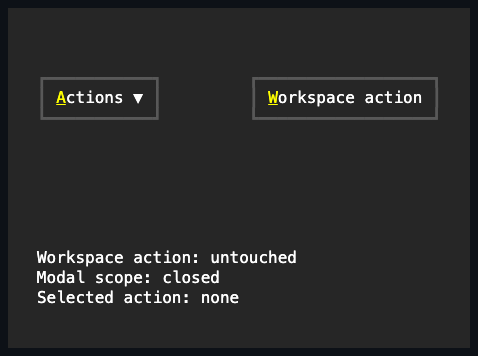
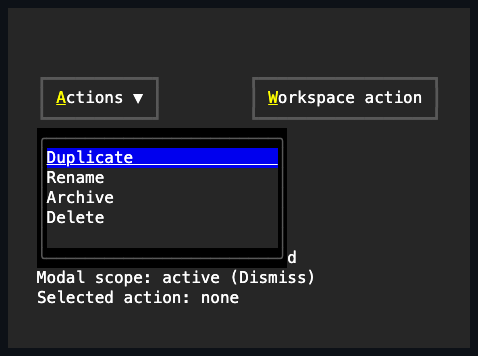
Show open floating surfaces in docs captures

Changed region(s): [[0.0586, 0.3399, 0.6736, 0.8034]]

diff --git a/examples/Showcase/Panes/ContextMenuPane.cs b/examples/Showcase/Panes/ContextMenuPane.cs
@@ -37,6 +37,21 @@ internal sealed class ContextMenuPane: CompositeControlBase
             Height = Length.Cells(3),
             ContextMenu = customMenu
         };
+        ShowcasePaneHelpers.Place(target, 2, 2);
+        ShowcasePaneHelpers.Place(status, 2, 10);
+        var customStage = new Overlay
+        {
+            Width = Length.Cells(34),
+            Height = Length.Cells(12),
+            ClipToBounds = true,
+            Children =
+            {
+                ShowcasePaneHelpers.ApplicationSurface(
+                    "Workspace\n\n\n\n\n\n\n\n\nContext menu closed."),
+                target,
+                status
+            }
+        };
 
         var textInput = new TextInput
         {
@@ -89,7 +104,7 @@ internal sealed class ContextMenuPane: CompositeControlBase
                 new DocExample(
                     "Right-click target",
                     "Right-click the button to see the context menu. <reverse>Escape</reverse> or clicking outside dismisses it.",
-                    new DocColumn(target, status),
+                    customStage,
                     "menu.FadeInDuration = TimeSpan.FromMilliseconds(120);\nmenu.FadeOutDuration = TimeSpan.FromMilliseconds(160);")),
             new DocSection(
                 "📋",
